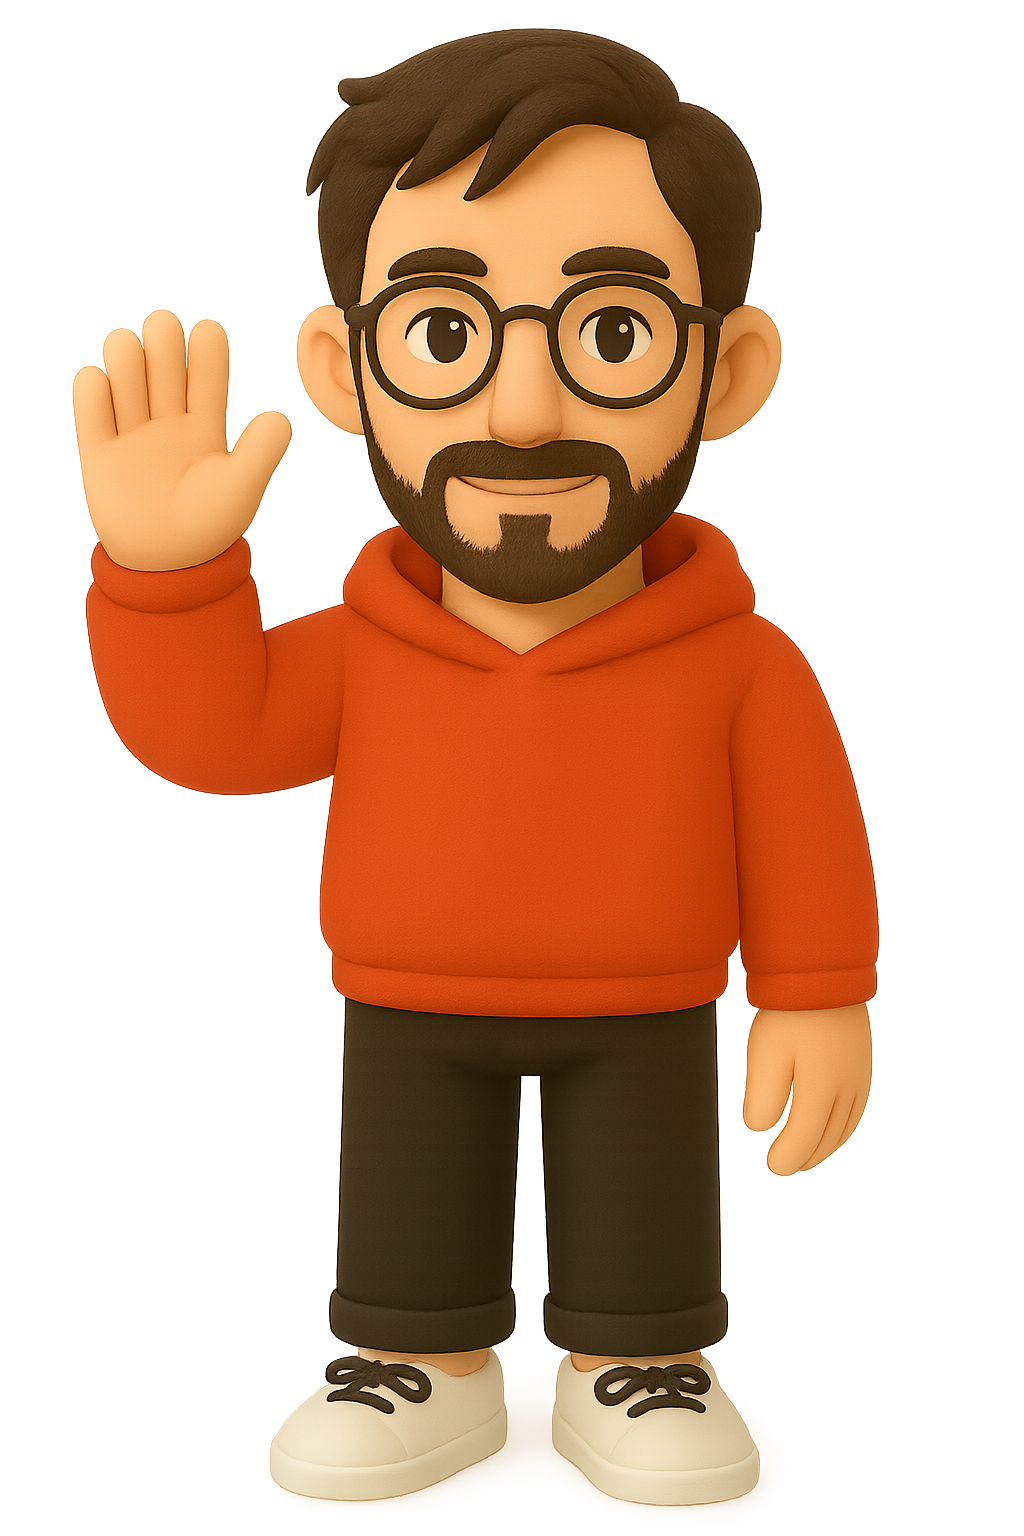
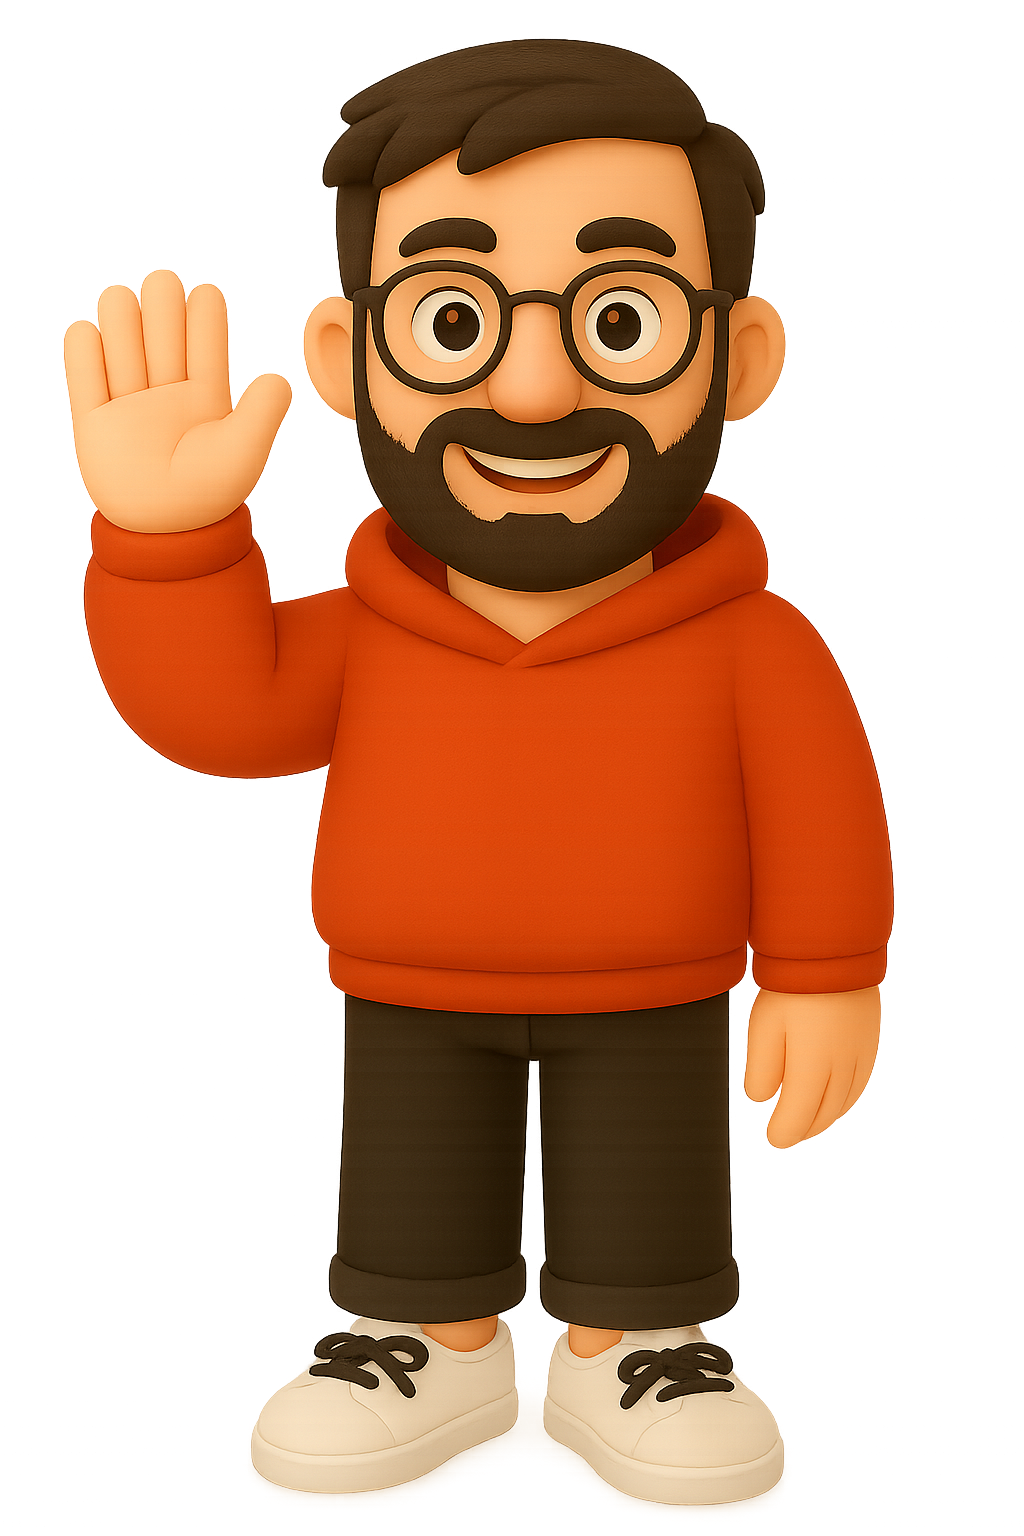
refactor: Update image reference in Presentation to personGPT5.png, remove unused personGPT.png, and adjust CSS class in ArrowRightIcon for cleaner styling

diff --git a/src/assets/animatedIcons/ArrowRightIcon.js b/src/assets/animatedIcons/ArrowRightIcon.js
@@ -61,7 +61,7 @@ const ArrowRightIcon = forwardRef(
 
     return (
       <div
-        className={`${className} cursor-pointer select-none p-2 hover:bg-accent rounded-md transition-colors duration-200 flex items-center justify-center`}
+        className={`${className} select-none p-2 hover:bg-accent rounded-md transition-colors duration-200 flex items-center justify-center`}
         onMouseEnter={handleMouseEnter}
         onMouseLeave={handleMouseLeave}
         {...props}

diff --git a/src/components/Presentation/index.js b/src/components/Presentation/index.js
@@ -1,6 +1,5 @@
 import { useEffect } from 'react';
-// import image_profile from '../../assets/images/profile_image.jpg';
-import image_profile from '../../assets/images/personGPT4.png';
+import image_profile from '../../assets/images/personGPT5.png';
 import terminalText from '../../utils/terminalText';
 import workIcon from '../../assets/icons/code-gray.png';
 
